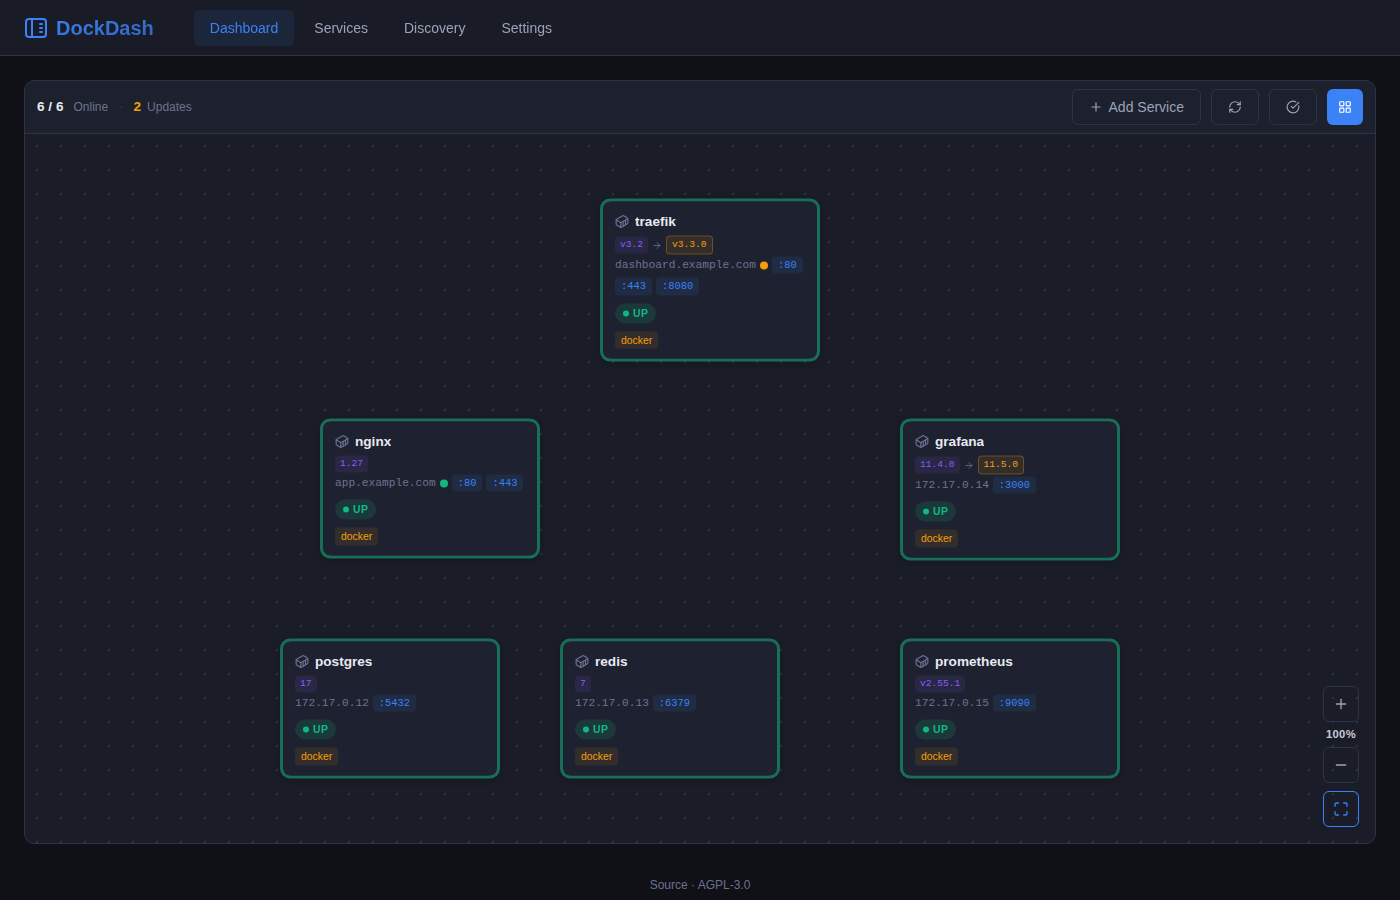
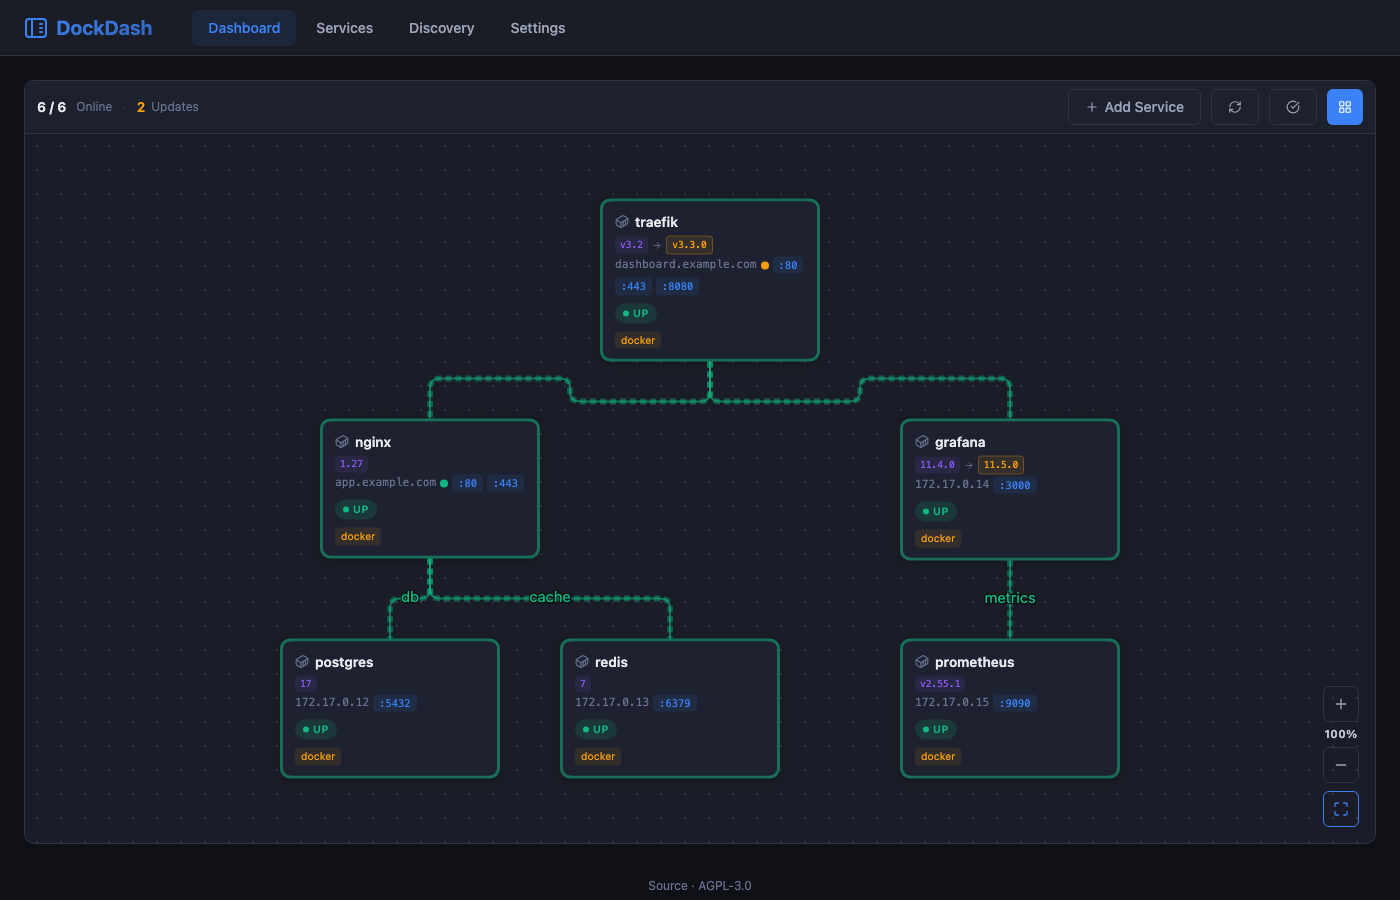
fix(dashboard): restore canvas link rendering

diff --git a/scripts/take-screenshots.ts b/scripts/take-screenshots.ts
@@ -572,7 +572,16 @@ async function main() {
     // laid-out DOM — this guarantees offsetWidth/offsetHeight are correct when
     // link paths are recomputed, avoiding misalignment on first render.
     await page.click('button[title="Fit to screen"]');
-    await page.waitForTimeout(600);
+    await page.waitForFunction((expectedLinks) => {
+      const linkLayer = document.querySelector("[data-link-layer]");
+
+      return (
+        linkLayer !== null &&
+        linkLayer.getBoundingClientRect().height > 0 &&
+        linkLayer.querySelectorAll("[data-link-id]").length === expectedLinks
+      );
+    }, DASHBOARD.links.length);
+    await page.waitForTimeout(100);
     await page.screenshot({ path: "screenshots/1.png" });
     console.log("✓ screenshots/1.png");
 

diff --git a/src/client/src/components/dashboard/DashboardCanvas.tsx b/src/client/src/components/dashboard/DashboardCanvas.tsx
@@ -903,8 +903,8 @@ export function DashboardCanvas({
           style={{
             transform: `translate(${panOffset.x}px, ${panOffset.y}px) scale(${zoomLevel})`,
             transformOrigin: "0 0",
-            width: "100%",
-            height: "100%",
+            width: `${canvasDimensions.w}px`,
+            height: `${canvasDimensions.h}px`,
             position: "relative",
             pointerEvents: "none",
           }}

diff --git a/src/client/src/components/dashboard/LinkLayer.tsx b/src/client/src/components/dashboard/LinkLayer.tsx
@@ -223,6 +223,7 @@ export function LinkLayer({
 
   return (
     <svg
+      data-link-layer
       style={{
         position: "absolute",
         top: 0,
@@ -245,7 +246,7 @@ export function LinkLayer({
           const by = p.endY + (dy * PORT_LABEL_H) / 2;
 
           return (
-            <g key={p.id}>
+            <g key={p.id} data-link-id={p.id}>
               <path
                 d={p.d}
                 fill="none"
